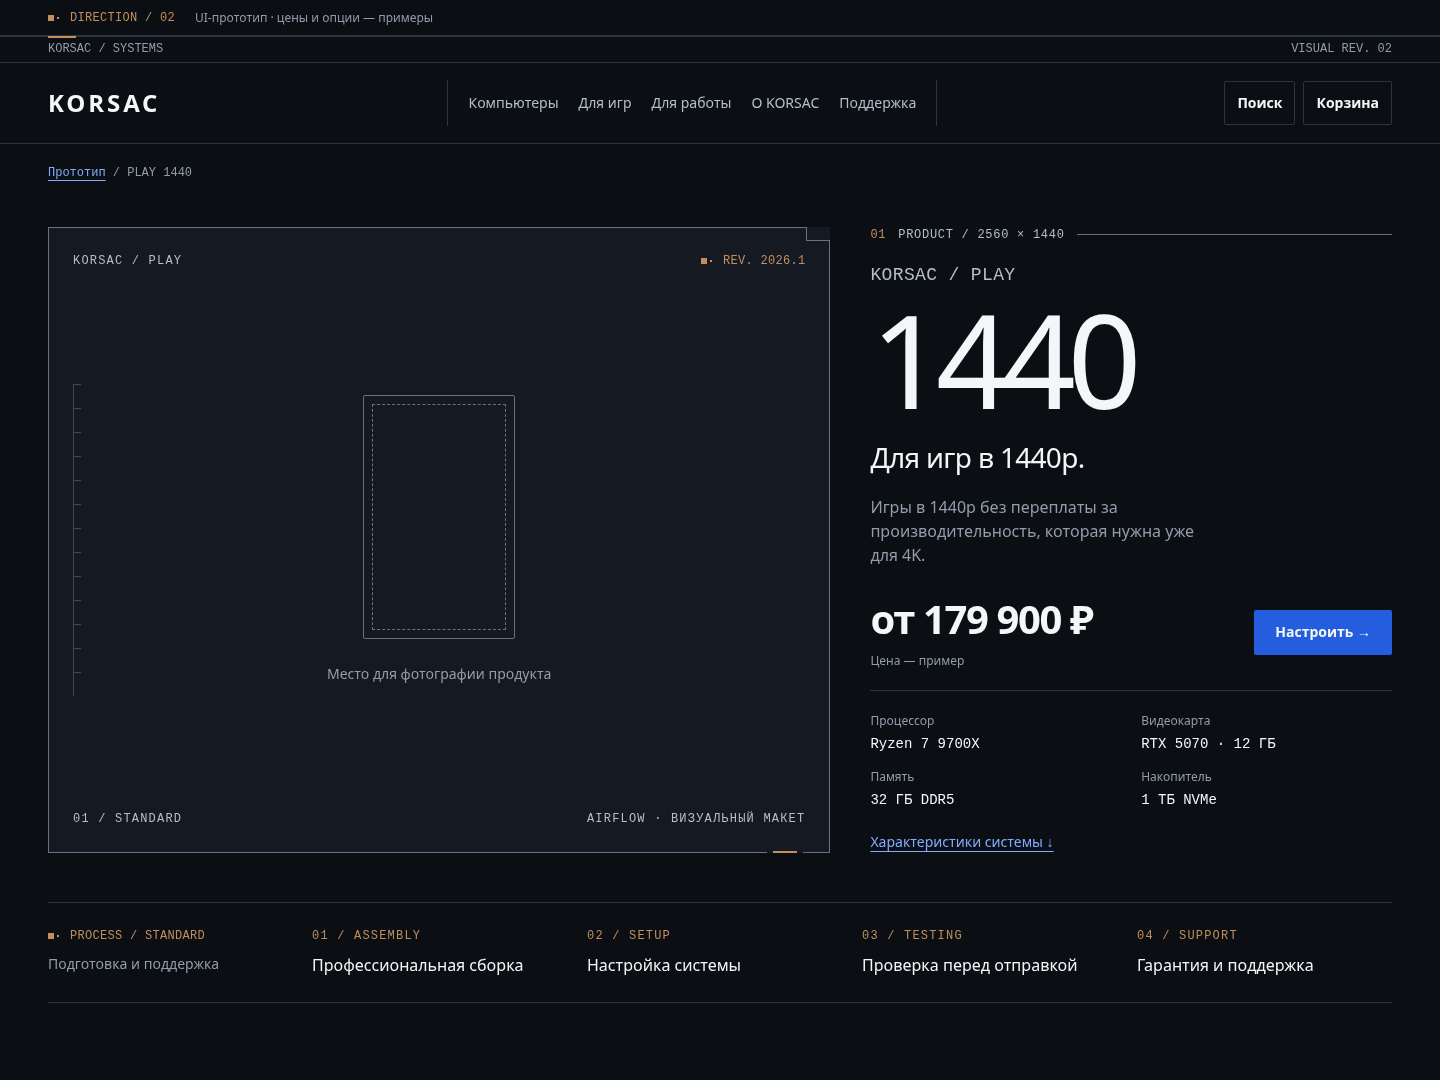
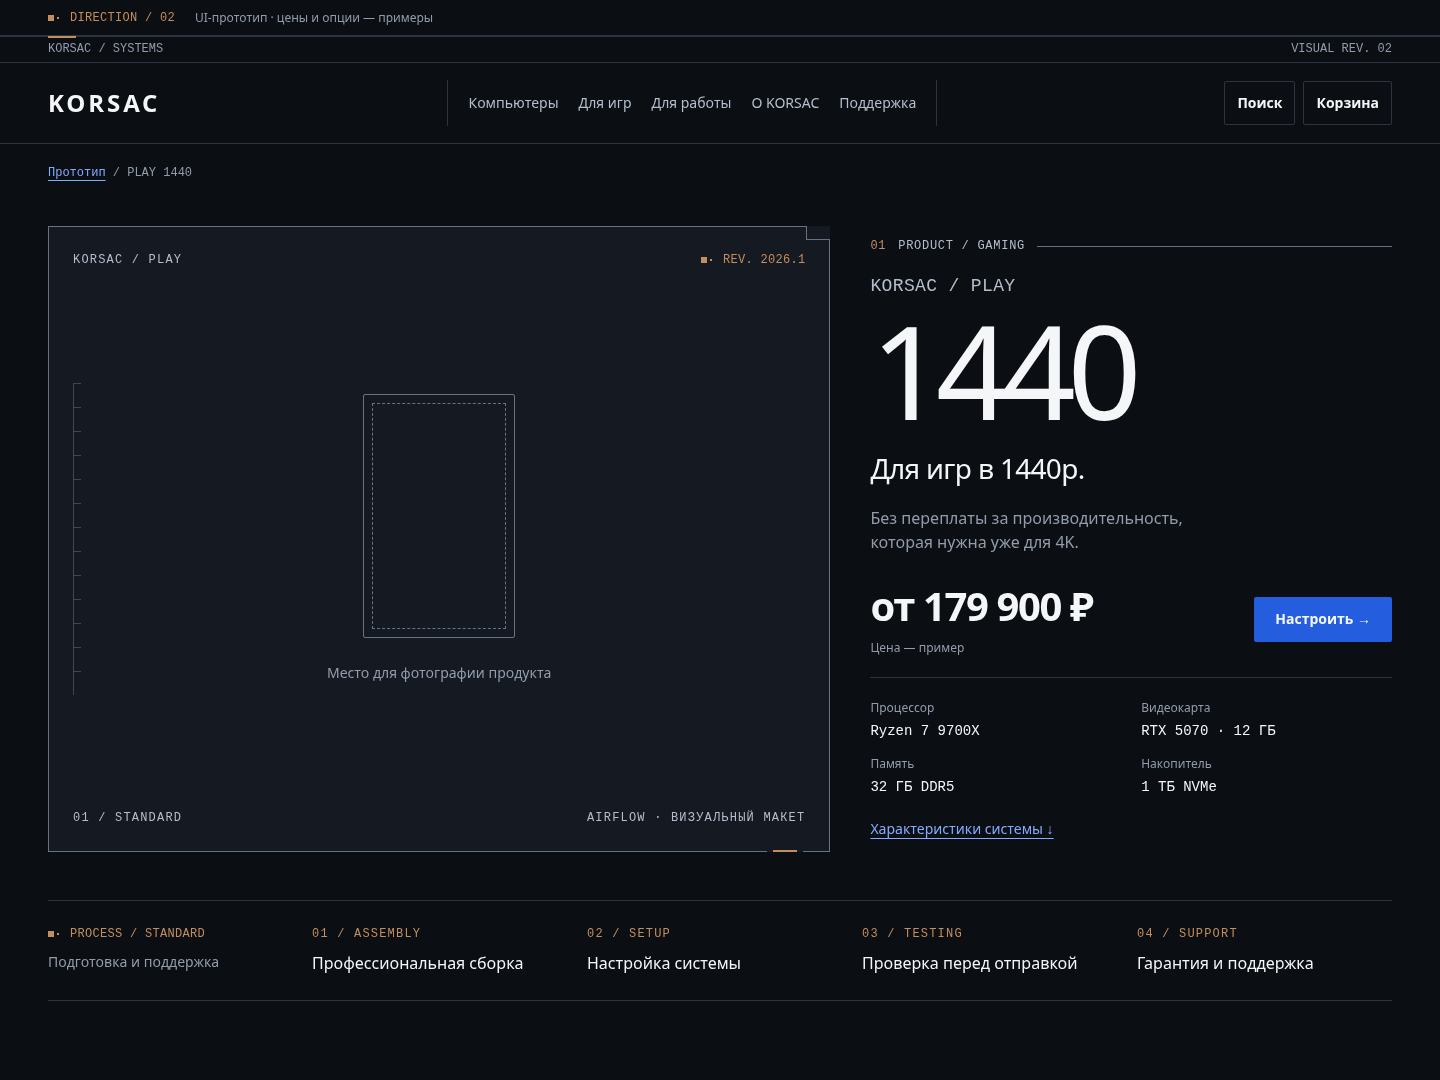
Fix duplicate mobile drawer indices and refine hero copy

diff --git a/prototype/product.html b/prototype/product.html
@@ -108,7 +108,7 @@
           </figure>
           <div class="k-hero-content k-stack">
             <div class="k-section-index" data-motion-step="marker">
-              <span>01</span><span>PRODUCT / 2560 × 1440</span>
+              <span>01</span><span>PRODUCT / GAMING</span>
             </div>
             <h1
               class="k-hero-title"
@@ -123,7 +123,7 @@
               Для игр в 1440p.
             </p>
             <p class="k-hero-description k-muted" data-motion-step="title">
-              Игры в 1440p без переплаты за производительность, которая нужна
+              Без переплаты за производительность, которая нужна
               уже для 4K.
             </p>
             <div class="k-hero-action" data-motion-step="cta">

diff --git a/prototype/assets/css/components.css b/prototype/assets/css/components.css
@@ -505,7 +505,6 @@ textarea.k-control {
   display: flex;
   flex-direction: column;
   gap: 0;
-  counter-reset: navigation;
   border-top: 1px solid var(--k-border);
 }
 .k-drawer-nav a {
@@ -516,10 +515,8 @@ textarea.k-control {
   color: var(--k-text);
   border-bottom: 1px solid var(--k-border);
   text-decoration: none;
-  counter-increment: navigation;
 }
-.k-drawer-nav a::before {
-  content: counter(navigation, decimal-leading-zero);
+.k-drawer-nav .k-nav-index {
   flex: 0 0 20px;
   color: var(--k-identity);
   font: 400 var(--k-caption) / 1.5 var(--k-font-mono);
